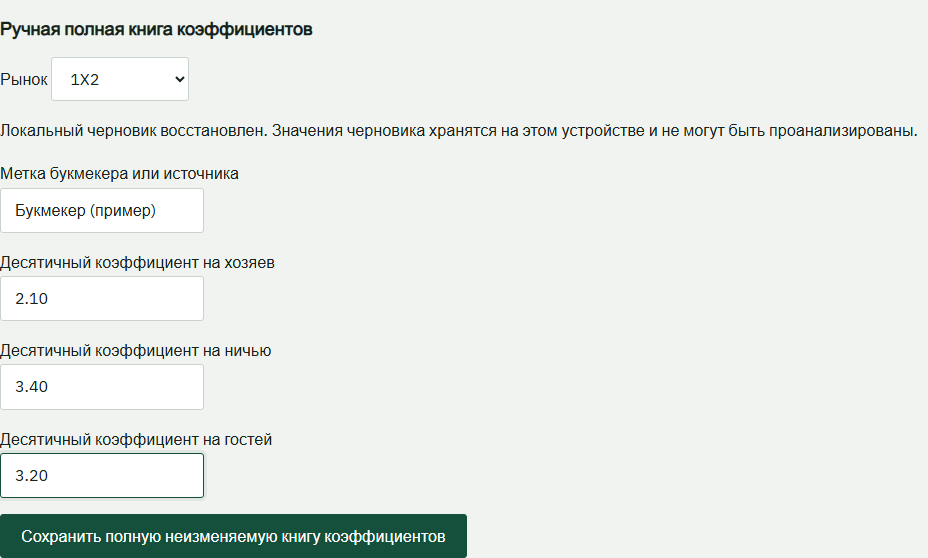
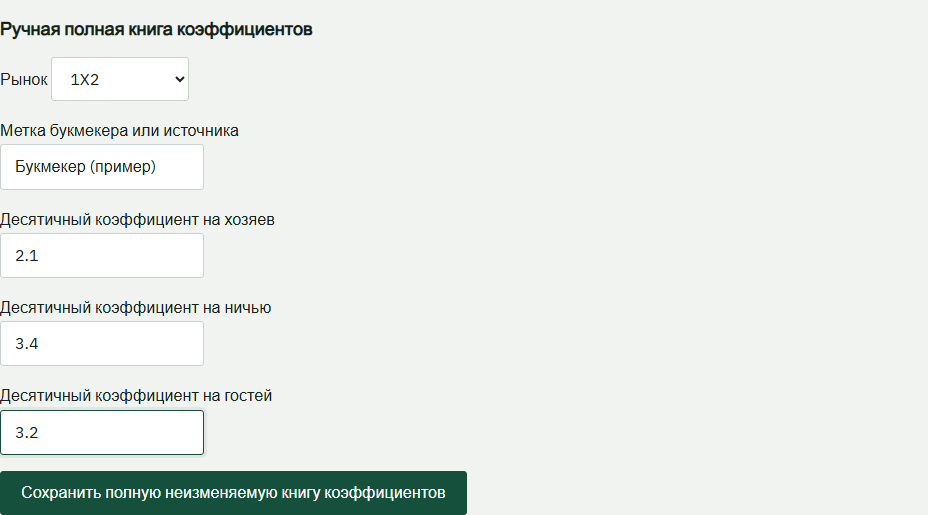
recapture FAQ odds screenshot with one-decimal example values

diff --git a/apps/web/app/faq/page.tsx b/apps/web/app/faq/page.tsx
@@ -31,7 +31,7 @@ const SCREENSHOTS: Record<ShotId, { src: string; width: number; height: number; 
   odds: {
     src: "/images/faq/odds.png",
     width: 928,
-    height: 558,
+    height: 515,
     alt: "Форма «Ручная полная книга коэффициентов»: выбран рынок 1X2, заполнены метка букмекера и десятичные коэффициенты на хозяев, ничью и гостей.",
   },
   scorecards: {
